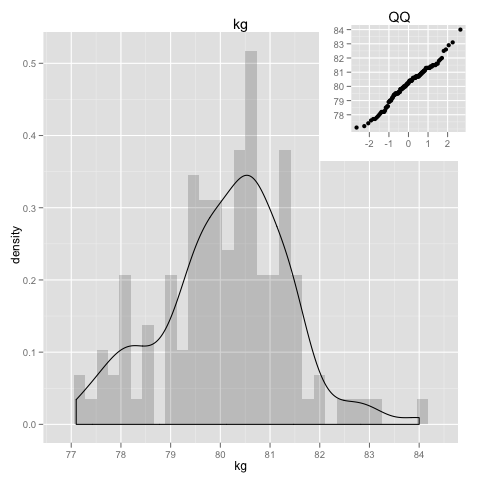
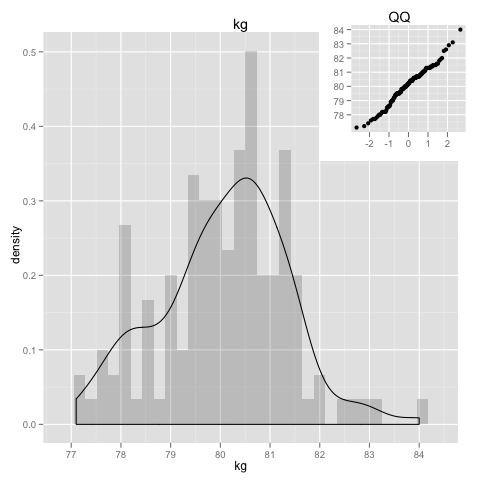
weight update

diff --git a/_posts/2011-02-05-weight-loss-predictor.html b/_posts/2011-02-05-weight-loss-predictor.html
@@ -29,7 +29,7 @@ Its an interesting book, because it has a scientific approach, it doesn't just s
 This book couldn't have arrived in a better time as i just peeked my heaviest weight in a  long time, blame it on [insert favorite reason]&hellip; so, long story short and I am now on the 3rd week of the low-carb diet described in the book. 
 </p>
 <p>
-But of course, like with all diets, I'm quickly growing impatient of when i'm going to reach my goals, so lets use R and monte carlo simulations to generate predictions and understand better what to expect.
+But of course, like with all diets, I'm quickly growing impatient of when i'm going to reach my goal (<a href="http://www.wolframalpha.com/input/?i=body+mass+index&amp;a=*C.body+mass+index-_*Formula.dflt-&amp;a=*FS-_**BodyMassIndex.BMI-.*BodyMassIndex.H-.*BodyMassIndex.W--&amp;f3=74+kg&amp;f=BodyMassIndex.W_74+kg&amp;f4=176+cm&amp;f=BodyMassIndex.H_176+cm&amp;a=*FVarOpt.1-_**-.***BodyMassIndex.S---.*--">of adequate BMI</a>), so lets use R and monte carlo simulations to generate predictions and understand better what to expect.
 </p>
 
 <div class="outline-2" id="outline-container-1">
@@ -161,16 +161,16 @@ dietalldays$delta = c(0, kgdelta)
 
 
 <pre class="example">    timestamp   kg delta
-24 2011-02-09 79.9  -0.1
-25 2011-02-10 79.5  -0.4
-26 2011-02-11 79.6   0.1
-27 2011-02-12 79.2  -0.4
 28 2011-02-13 79.9   0.7
 29 2011-02-14 80.1   0.2
 30 2011-02-15 79.1  -1.0
 31 2011-02-16 78.9  -0.2
 32 2011-02-17 78.5  -0.4
 33 2011-02-18 78.2  -0.3
+34 2011-02-19 78.0  -0.2
+35 2011-02-20 78.6   0.6
+36 2011-02-21 78.7   0.1
+37 2011-02-22 78.2  -0.5
 </pre>
 
 
@@ -204,7 +204,7 @@ summary(mcWeightWeek)
 
 <pre class="example">
    Min. 1st Qu.  Median    Mean 3rd Qu.    Max. 
-  72.97   76.15   76.95   76.93   77.70   81.40
+  73.00   76.28   77.07   77.06   77.82   81.68
 </pre>
 
 
@@ -228,7 +228,7 @@ Another good thing about monte carlo methods is that they give a distribution of
 </div>
 
 <div class="outline-3" id="outline-container-2_2">
-<h3 id="sec-2_2">And when am i getting to 75kg? </h3>
+<h3 id="sec-2_2">And when am i getting to 74kg? </h3>
 <div class="outline-text-3" id="text-2_2">
 
 
@@ -248,16 +248,16 @@ Another good thing about monte carlo methods is that they give a distribution of
 }
 
 <span style="color: #b22222;"># </span><span style="color: #b22222;">simulate it 10k times
-</span>mcDays75 = replicate(10000, days.to.weight(75, lastweight, kgdelta))
+</span>mcDays74 = replicate(10000, days.to.weight(74, lastweight, kgdelta))
 
-summary(mcDays75)
+summary(mcDays74)
 </pre>
 
 
 
 <pre class="example">
    Min. 1st Qu.  Median    Mean 3rd Qu.    Max. 
-   4.00   12.00   17.00   19.24   24.00  132.00
+   5.00   18.00   25.00   27.88   34.00  139.00
 </pre>
 
 
@@ -268,21 +268,21 @@ And the cumulative distribution:
 
 
 <pre class="src src-R"><span style="color: #b22222;"># </span><span style="color: #b22222;">add dates to it, from today's date + #days
-</span>days75 = sort(Sys.Date() + mcDays75)
+</span>days74 = sort(Sys.Date() + mcDays74)
 
 <span style="color: #b22222;"># </span><span style="color: #b22222;">get the ecdf values into a dataframe
-</span>days75.ecdf = summarize(data.frame(days=days75), days = unique(days), 
+</span>days74.ecdf = summarize(data.frame(days=days74), days = unique(days), 
                         ecdf = ecdf(days)(unique(days)))
 
 <span style="color: #b22222;"># </span><span style="color: #b22222;">date where its 85% sure i'll reach goal
-</span>prob85 = head(days75.ecdf[days75.ecdf$ecdf&gt;0.85,],1)
+</span>prob85 = head(days74.ecdf[days74.ecdf$ecdf&gt;0.85,],1)
 
 <span style="color: #b22222;"># </span><span style="color: #b22222;">plot
-</span>ggplot(days75.ecdf, aes(days, ecdf)) + geom_step() +
+</span>ggplot(days74.ecdf, aes(days, ecdf)) + geom_step() +
        ylab(<span style="color: #8b2252;">"probability"</span>) + 
        geom_point(aes(x = prob85$days, y = prob85$ecdf)) +
        geom_text(aes(x = prob85$days, y = prob85$ecdf, 
-                    label = paste(<span style="color: #8b2252;">"85% sure to reach goal on"</span>,
+                    label = paste(<span style="color: #8b2252;">"85% sure to be 74kg on"</span>,
                             format(prob85$days, <span style="color: #8b2252;">"%a, %d %b %Y"</span>))), 
                      hjust=-0.04)
 </pre>
@@ -291,7 +291,7 @@ And the cumulative distribution:
 
 
 <p>
-<img src="http://al3xandr3.github.com/img/w-loss-85.png" alt="http://al3xandr3.github.com/img/w-loss-85.png" />
+<img src="http://al3xandr3.github.com/img/w-loss-74.png" alt="http://al3xandr3.github.com/img/w-loss-74.png" />
 </p>
 <p>
 Also note that, weight loss is faster at the beginning of a diet, it tends to slow down over time, so to keep the predictions valid we need to continue record the weight and re-run the predictions frequently.
